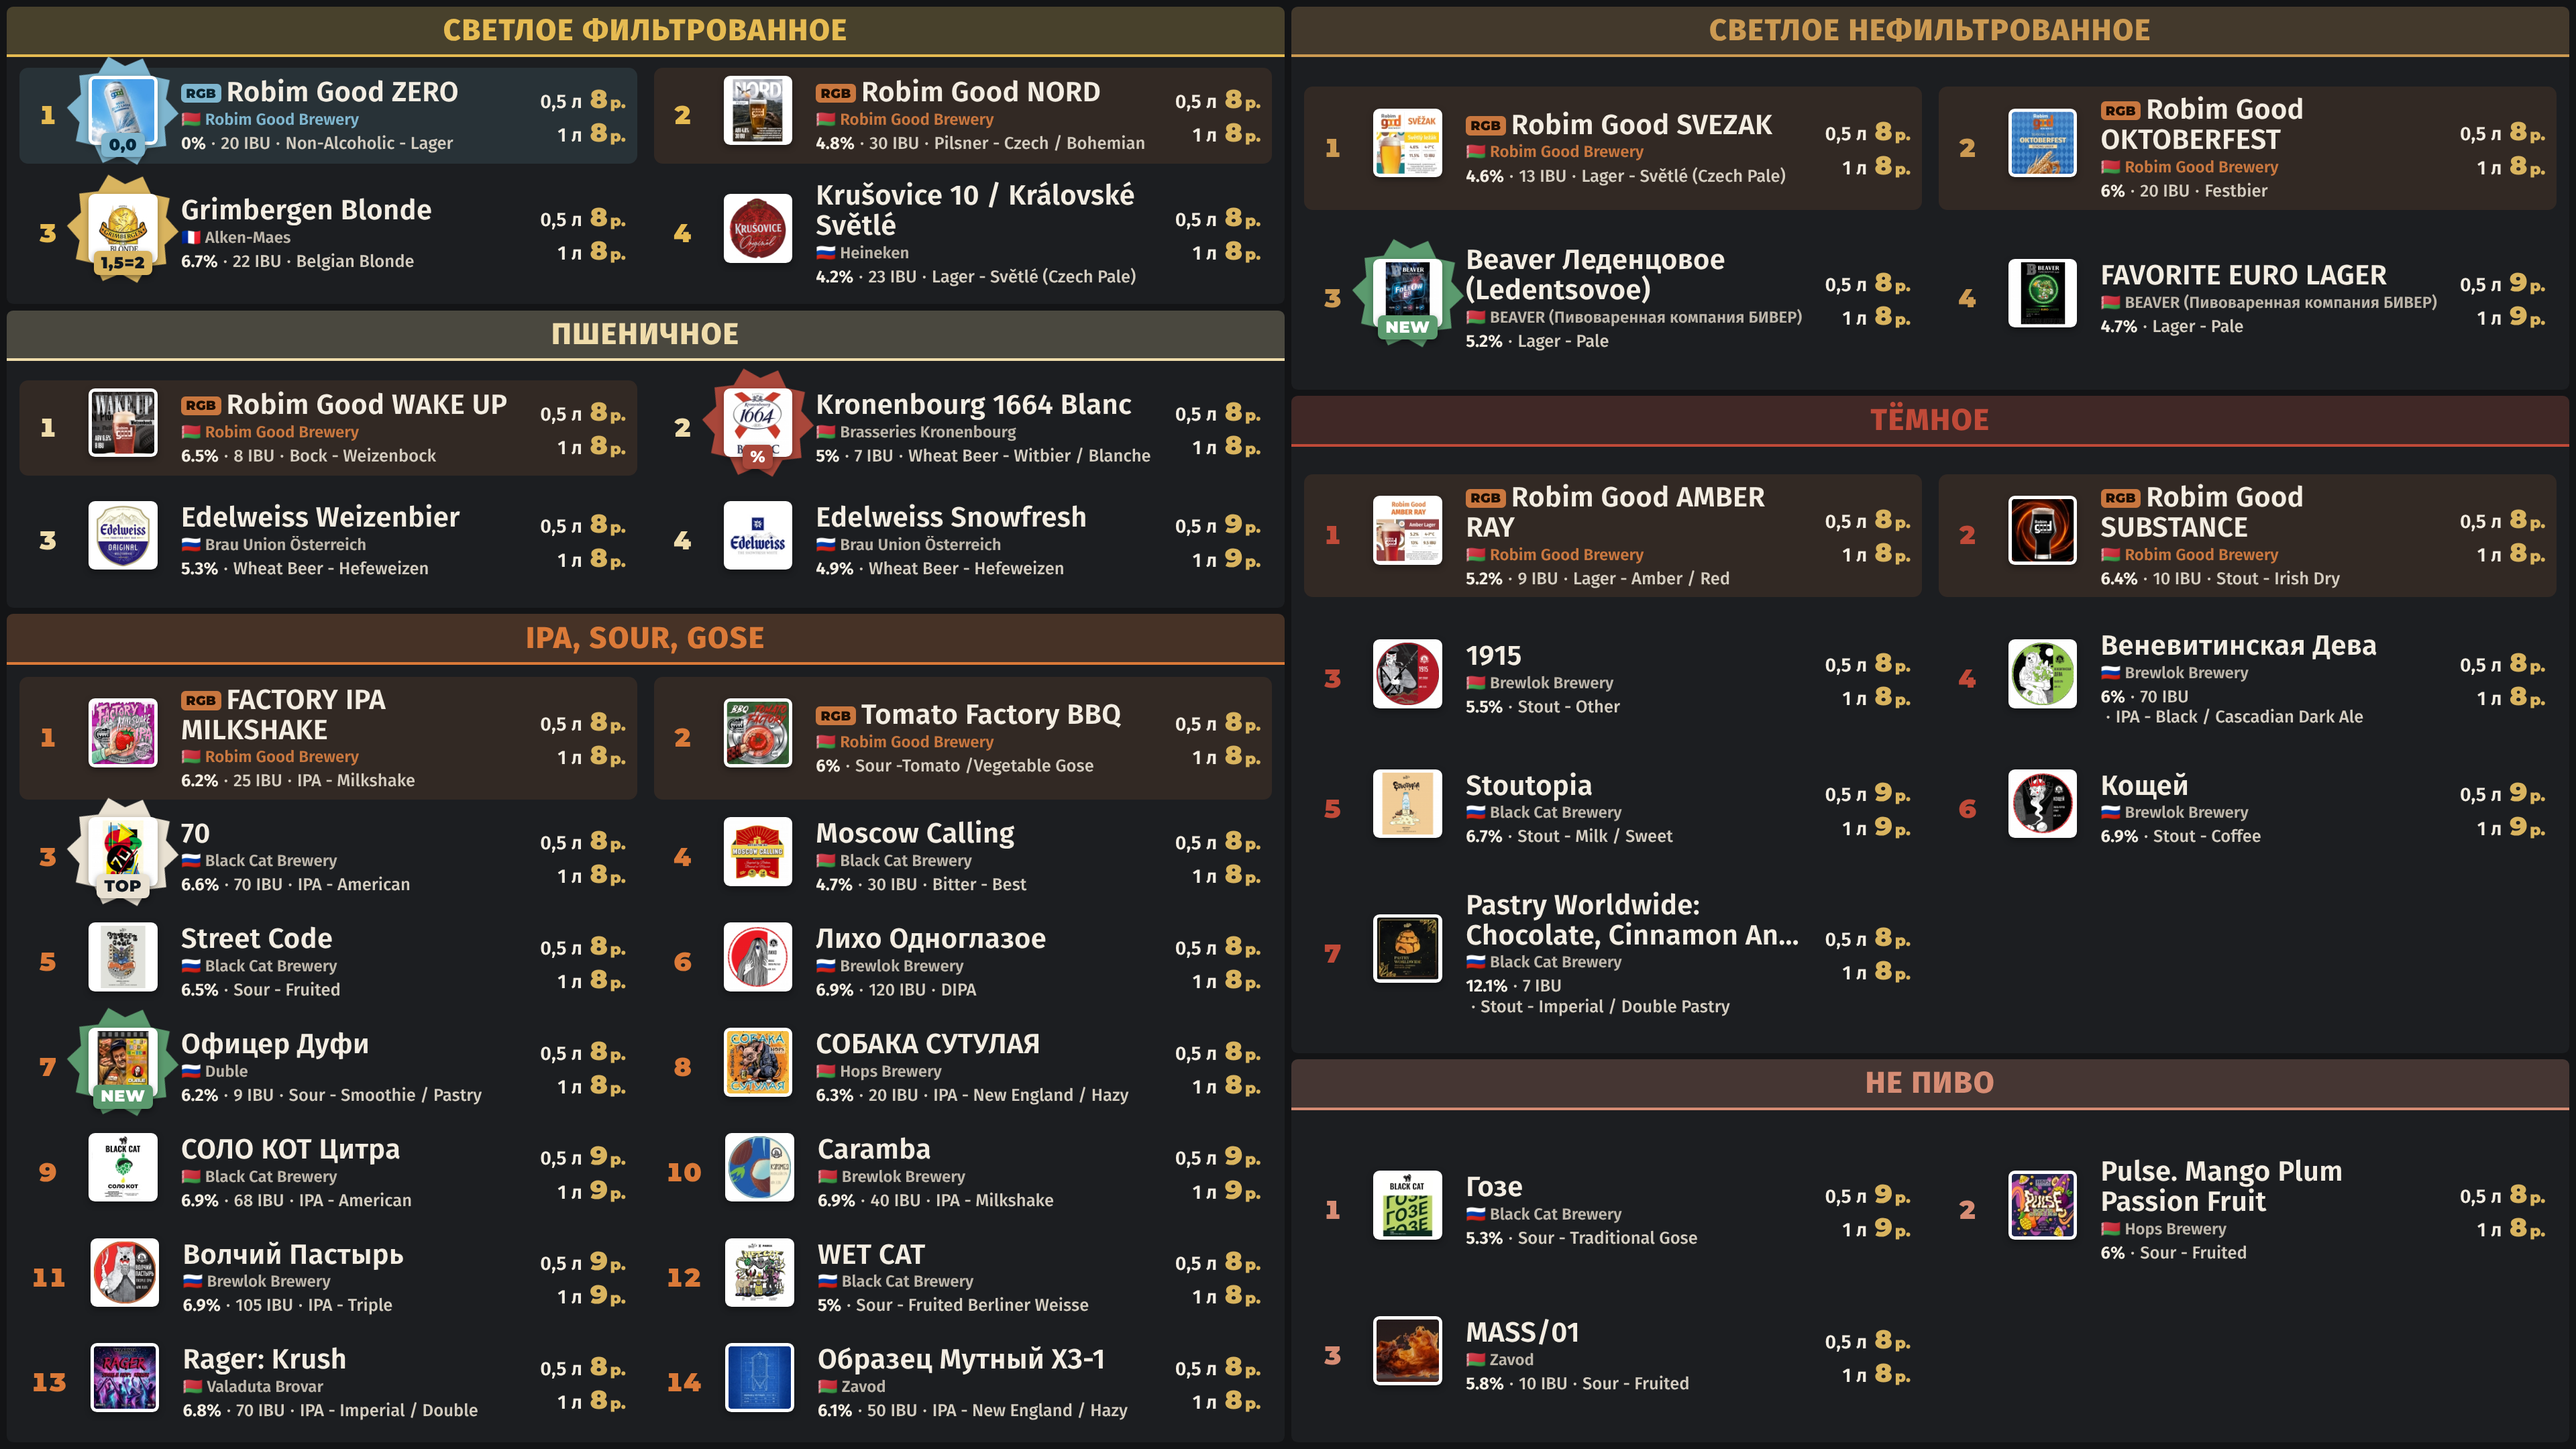
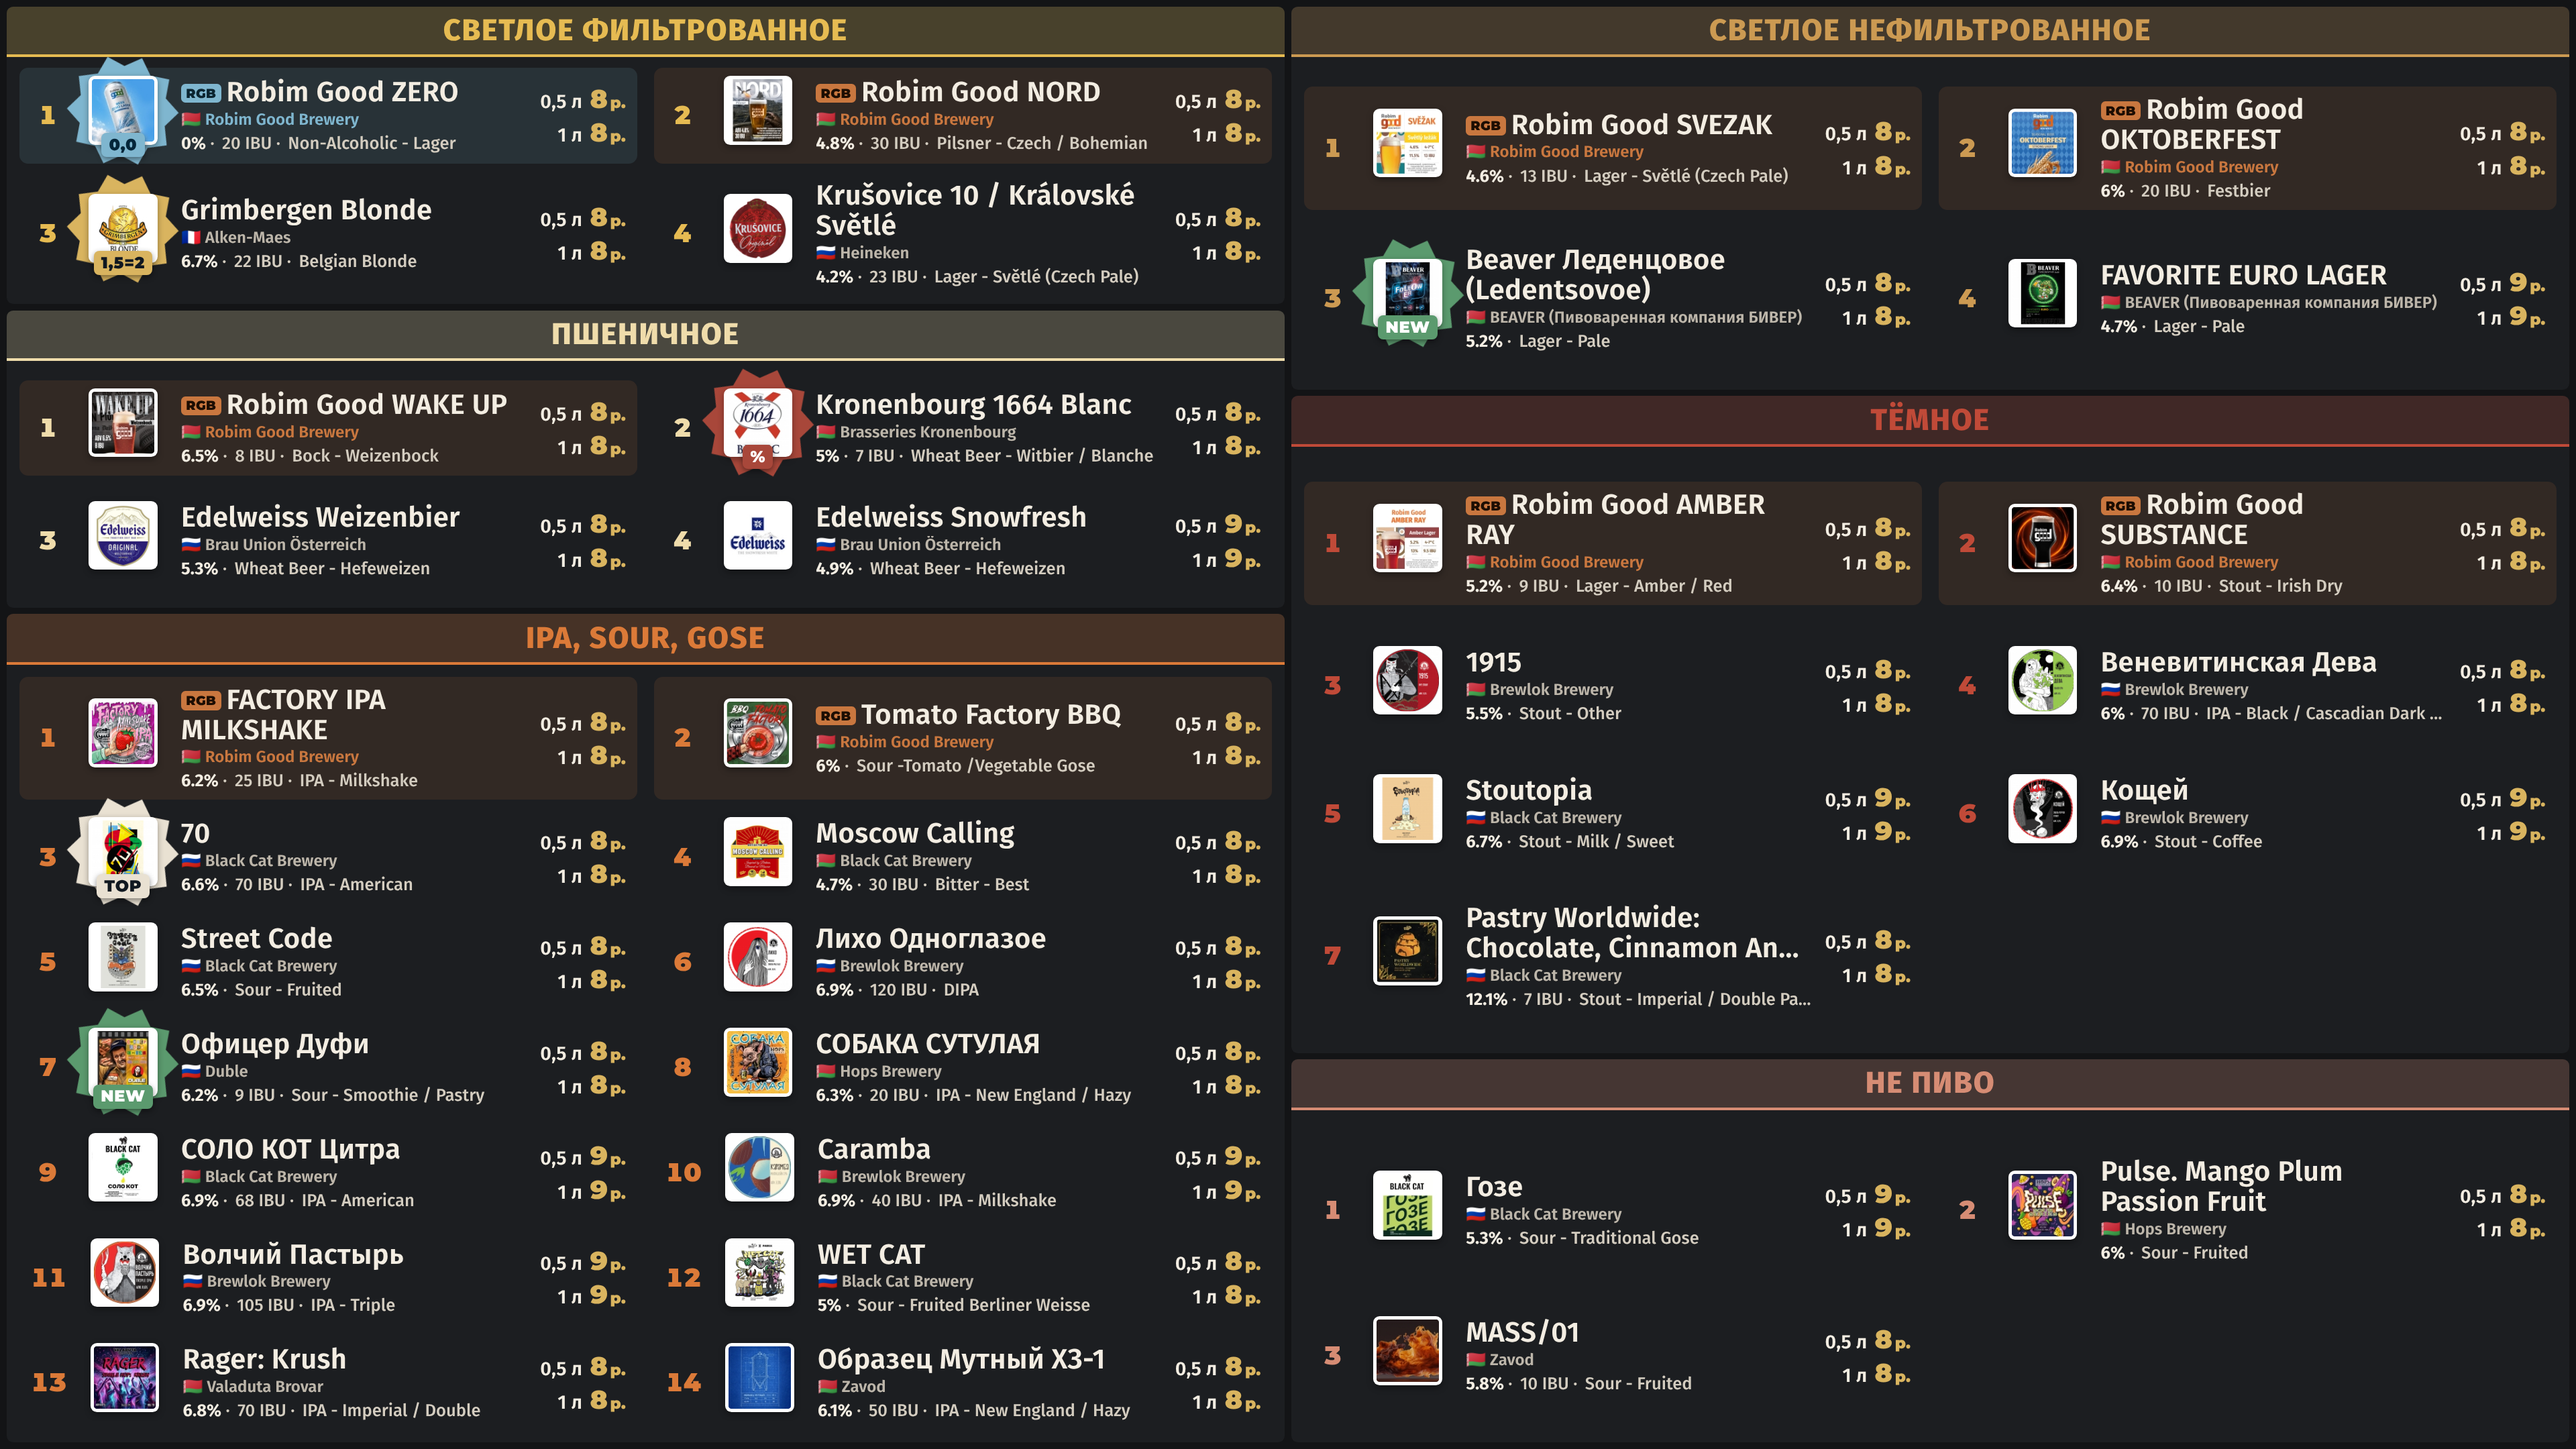
Keep the stats line on one line and finalize the spec
Long styles end with an ellipsis instead of wrapping onto a line that
starts with a dot. Spec marks the 10-point star as final; PNG refreshed.

Claude-Session: https://claude.ai/code/session_01WhFHhBSTk1qDwFs4ARCwDt

diff --git a/index.html b/index.html
@@ -86,9 +86,10 @@
   /* название — главное на экране: крупный Fira Sans, без сжатия */
   .tap h3 { margin: 0; font-family: "Fira Sans", Arial, sans-serif; font-size: 2.6rem; font-weight: 600; letter-spacing: .01em; line-height: 1.08; display: -webkit-box; -webkit-line-clamp: 2; -webkit-box-orient: vertical; overflow: hidden; }
   .brewery { margin: .3rem 0 .4rem; color: var(--brewery); font: 600 1.5rem/1.15 "Fira Sans", Arial, sans-serif; white-space: nowrap; overflow: hidden; text-overflow: ellipsis; }
-  .stats { display: flex; flex-wrap: wrap; align-items: baseline; font: 500 1.6rem/1.2 "Fira Sans", Arial, sans-serif; color: var(--stats); }
+  /* одна строка: длинный стиль обрезается «…», а не переносится с висящей точкой */
+  .stats { white-space: nowrap; overflow: hidden; text-overflow: ellipsis; font: 500 1.6rem/1.2 "Fira Sans", Arial, sans-serif; color: var(--stats); }
   .stats span { white-space: nowrap; }
-  .stats span + span::before { content: "·"; margin: 0 .5rem; }
+  .stats span + span::before { content: "·"; margin-right: .45em; }  /* слева отступ даёт пробел между span */
   .stats .abv { color: var(--fg); font-weight: 700; }
 
   .prices { display: grid; grid-template-columns: auto auto; gap: .2rem .7rem; align-items: baseline; white-space: nowrap; }

diff --git a/SPEC.md b/SPEC.md
@@ -188,6 +188,9 @@ Google Fonts: `Fira Sans` (500, 600, 700, 800) и `Montserrat` (900).
   Все логотипы одного размера независимо от исходной картинки.
 - **Текст**: название → пивоварня (флаг + имя) → строка «крепость · IBU · стиль»
   через «·». Если IBU нет — пропустить вместе с разделителем.
+  Строка характеристик — **в одну строку**: длинный стиль обрезается «…»
+  (`white-space: nowrap; text-overflow: ellipsis`), чтобы при переносе не
+  появлялась строка, начинающаяся с «·».
 - **Цены**: две строки, сетка «подпись | цена», подписи выровнены вправо.
 
 ## 7. Метки
